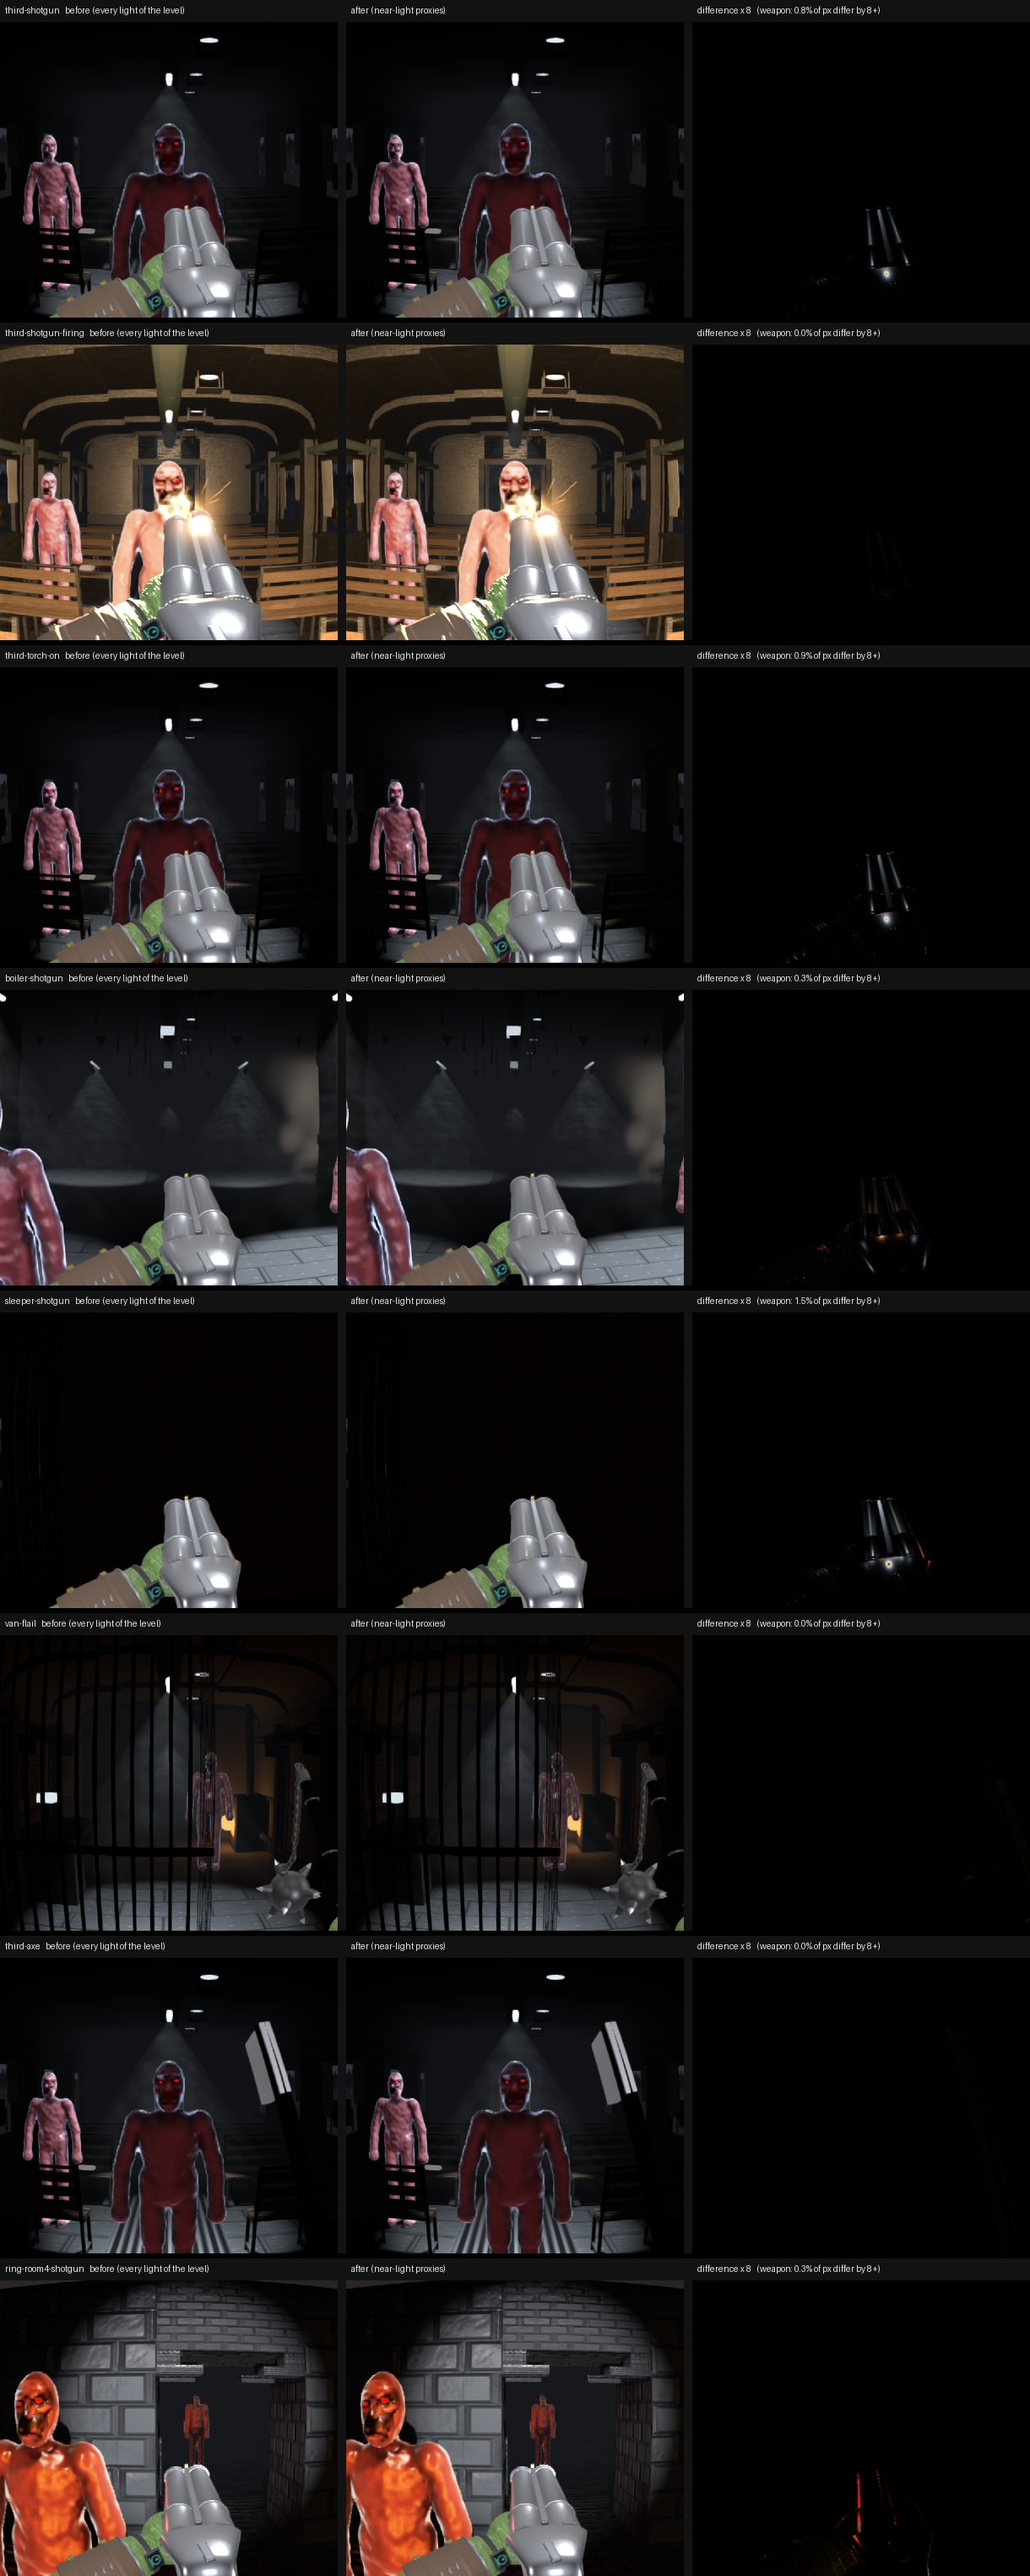
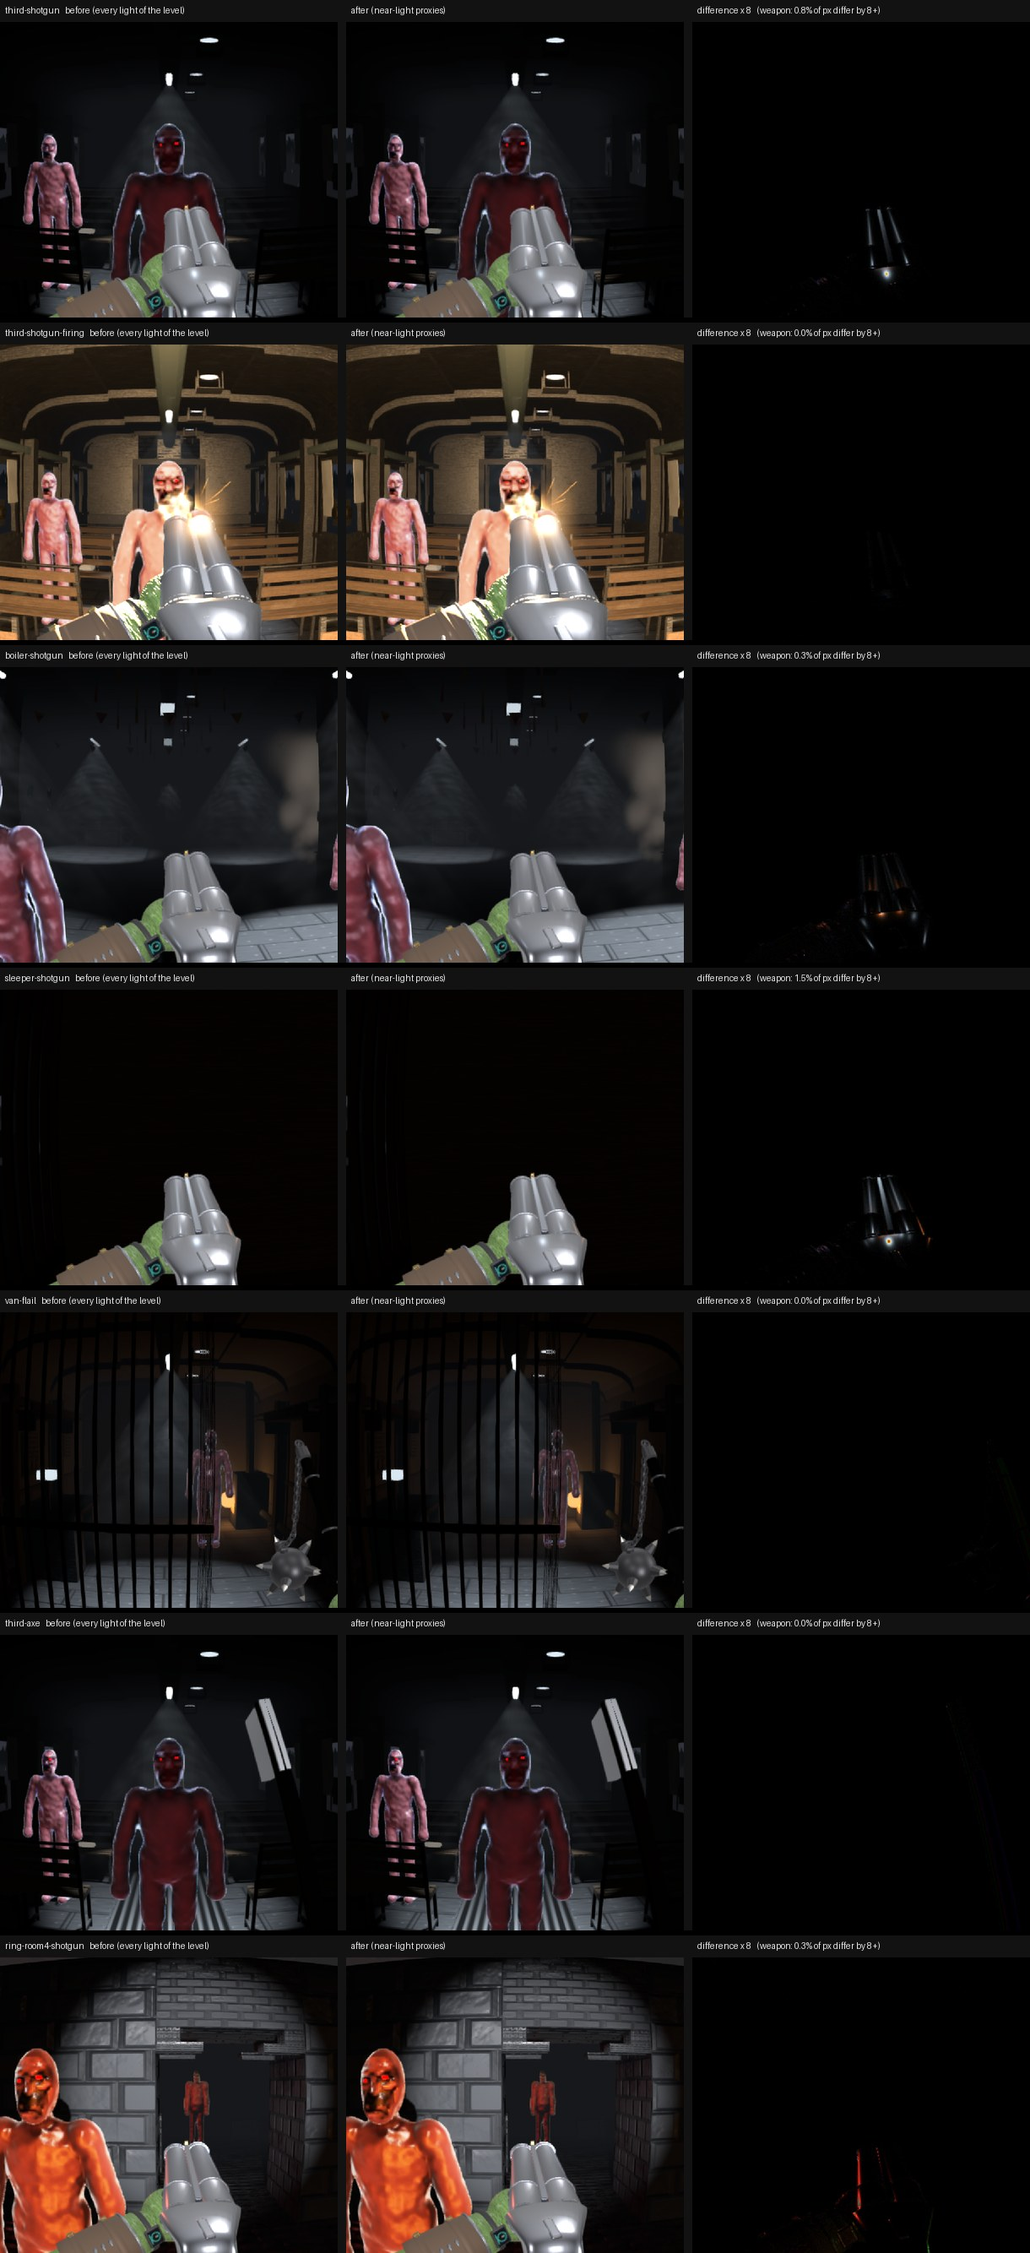
docs(frame-cost): the near-lights change's before and after, its checks, and the ranking

diff --git a/docs/dev-notes/2026-10-08-frame-cost/NOTES.md b/docs/dev-notes/2026-10-08-frame-cost/NOTES.md
@@ -326,11 +326,68 @@ not see either without the difference map.
 **How to put it back.** `?nearlights=0`: the held meshes shade three's default list again and the flail and axe
 their old mirror of it. `__sdfGame.nearLights()` reports which real light each proxy holds.
 
-`PENDING: the gates' counts, the torch-lit case, CI.`
+**Checks** (on the branch, 2026-10-08):
 
-## 6. The ranking
+| Check | Result |
+| --- | --- |
+| `march-hash`, three modes | **no pin moved**: default `d7392d52…` / wounded `76bd51aa…`, crowd `0c71e712…` / `bf6836cd…`, per-body `470ff0b3…` / `f618070e…` (the body march is not touched) |
+| `scripts/flail-gate.mjs` (`OUT=` scratch) | 47 passes, 0 failed (it measures the haft's and the ball's clipping under the torch's fill) |
+| `scripts/axe-gate.mjs` (`OUT=` scratch) | 29 checks, 0 failed |
+| `scripts/sdf-game-train-gate.mjs` | passed |
+| `scripts/sdf-game-light-gate.mjs` | every check passes but one, **which fails on `main` too**: "skull glows in the dark: skull 0.083 vs surrounding flesh 0.053 (1.56x > 1.5x)" on pristine `06f2ef12`, 1.55x on the branch. It came in with the sculpted skull's second paint; flagged as its own task, not touched here |
+| `npm run typecheck`, `npm run test:changed` | clean; 6 files, 33 tests (the new `near-light-pick.test.ts` among them) |
+| Console errors over the eight look boots and the 16 matrix boots | 0 |
 
-`PENDING.`
+**Not verified.** The torch on Night Train (my two captures did not light it; the torch-lit case in the sheet is the
+bare page's, where it is on from boot, and the flail and axe gates run under it). Outdoor levels (the moon is a
+directional light and takes a directional slot; not captured). A weapon picked up in play after the gun loaded is
+adopted within 2 s (120 frames), not at once: for that long it keeps the default list, as before. The owner has not
+seen it in play.
+
+## 6. The ranking: what closes the gap to 33.3 ms
+
+Where the heavy scenes stand with §5.1 in:
+
+| Heavy scene | Before | With §5.1 | Still over by | What is left in it |
+| --- | --- | --- | --- | --- |
+| Boiler Room, after a fight | 37.6 ms | 33.1 ms | 0 (no margin) | march 23.5 of it: wounds |
+| Bare arena, after a fight (46 wounds) | 37.4 ms | 37.4 ms (no Night Train lights there) | 4.1 | march 30.1: wounds |
+| Close-up, 32 wounds + a torso chop + the head split wide | 36.2 ms | about the same | 2.9 | march 31.2: cuts and the split |
+| Third class, walking in | 26.0 ms | 19.9 ms | under by 13 | |
+
+So everything that is still over is the march on wounded bodies. In order of evidence:
+
+| # | Candidate | Helps | Expected | Evidence | Risk | What changes on screen |
+| --- | --- | --- | --- | --- | --- | --- |
+| 1 | **Near lights for the held meshes** (§5.1) | Night Train | −2.5 to −6.1 ms; entry hitch halved | built, measured | low | thin far glints on the barrels go; no tube shadow on the gun |
+| 2 | **The props and the kit on their room's lights** (fixtures, pickups, spent shells: 58 meshes on the default list; the soldiers' kit mirrors it too) | Night Train | −1 to −1.5 ms (the 58 meshes' ceiling is 1.5 ms; the kit is not measured) | §3.1 | low: they do not move between rooms, so a fixed list per room rebuilds nothing | none expected |
+| 3 | **Merge PR 35** (the open head's and the cuts' bounds) | cuts, open heads | −23 to −29% of the march's primitive folds on a chopped or split body; −1.5 ms on a clean open head by its own measure; not resolved on a heavily wounded one | §3.3 | low to medium: it predates the skull stack; its three gates and `march-hash` must be re-run on the merge | none (the same picture to the bit, or the same solid inside a smaller hull) |
+| 4 | **Find the cut's and the split's uncounted cost** (a torso chop adds 16 ms to a body with 32 wounds, the split wide another 26 ms, and neither shows in rows or primitives) | the close-up, any chopped body | unknown until attributed; the largest unexplained item | §3.3 | none to measure; the fixes it points at (the cut's noise confined to its rim, the split's per-piece set-up reused) are exact or near-exact | none intended |
+| 5 | **Fold wound rows for a region, not a sample** (a per-tile or per-cluster mask of which wounds can reach it, written when a wound is stamped) | every wounded body | bracketed by two measurements: all rows for everyone costs +10 ms (the early-out off), per-sample removal of 76% returns nothing resolved. A regional cut should land between | §3.3 | medium: a bound that is too tight is a hole in a body | none if the bound is exact |
+| 6 | **Bake craters into a rest-space volume per body** (the research pass's only route to a cost that does not grow with the count) | every wounded body | removes the dependence on count for craters | published practice (Claybook, Dreams); nothing measured here | high: days of work; rims limited by the volume's cell; cuts are too thin for it | crater rims softer unless the noise stays procedural |
+| 7 | **Pose, pack and upload only the bodies in view** | every level's CPU | −1 to −2.5 ms of tick | §3.2 | medium: the posed body has about 30 readers inside `game-actor.ts`; demos must replay to the same hash | none |
+| 8 | **The first shot's 29 pipelines** (70 to 150 ms, once a boot) and the rest of the entry hitch (50 to 85 ms) | stability | removes two visible stalls | §2.1, §5.1 | medium: the warm-up has to draw what a first shot creates without showing it; cold boot grows by whatever it compiles | none |
+
+The CPU items (7, and the level's draw submission) return less in the heavy scenes than their milliseconds: those
+frames are bound by the GPU (the GPU waits on the CPU for 0.8 to 2.4 ms after the slug, 3 to 6 ms while firing).
+
+**Not worth doing** (measured, with the number):
+
+| Idea | Why not |
+| --- | --- |
+| The post chain (FXAA, VHS, the upscale) | about 1 ms together; FXAA 0.1 to 0.4, VHS under the floor |
+| Fewer or baked shadow maps; shadows off on bodies | re-renders 0.15 ms of CPU; sampling on bodies under the floor in all six scenes |
+| A level distance field or light cookies, for time | there is no shadow-map time to win back (above). Both may be worth having for the look (soft shadows and AO from the carriage on bodies without the 16-texture limit; shaped beams), judged as look work |
+| Not drawing intact heads; 1 cm skulls | half a million triangles change the polygon pass by under 0.1 ms |
+| Merging the gun's and the arms' 101 meshes; normal maps or parallax on them | under 1 ms of CPU; their cost was the light list, now fixed. Worth folding into the shotgun's own clean-up, not a perf item |
+| The exact wound reach (`setWoundExact`), the per-ray wound list | −76% rows, no time resolved; the list costs 17 ms more here |
+| Goo, gib chunks, the bone and organ meshes | 0.3 to 1.5 ms, mostly under the floor |
+
+**One wider observation.** Three of today's findings have the same shape: a system grew its own answer to "what is
+relevant right now" and its neighbours never got it. The walls had a per-room light list, the gun and the props did
+not. The visual set gates a body's hulls and bones but not its pose. The warm-up compiles the pipelines it can see
+and not the 29 a first shot makes. One shared answer per tick (which room, which bodies, which lights) would replace
+several partial ones; that is a direction to grow into while fixing these, not a rewrite to schedule.
 
 ## 7. How to re-run
 
